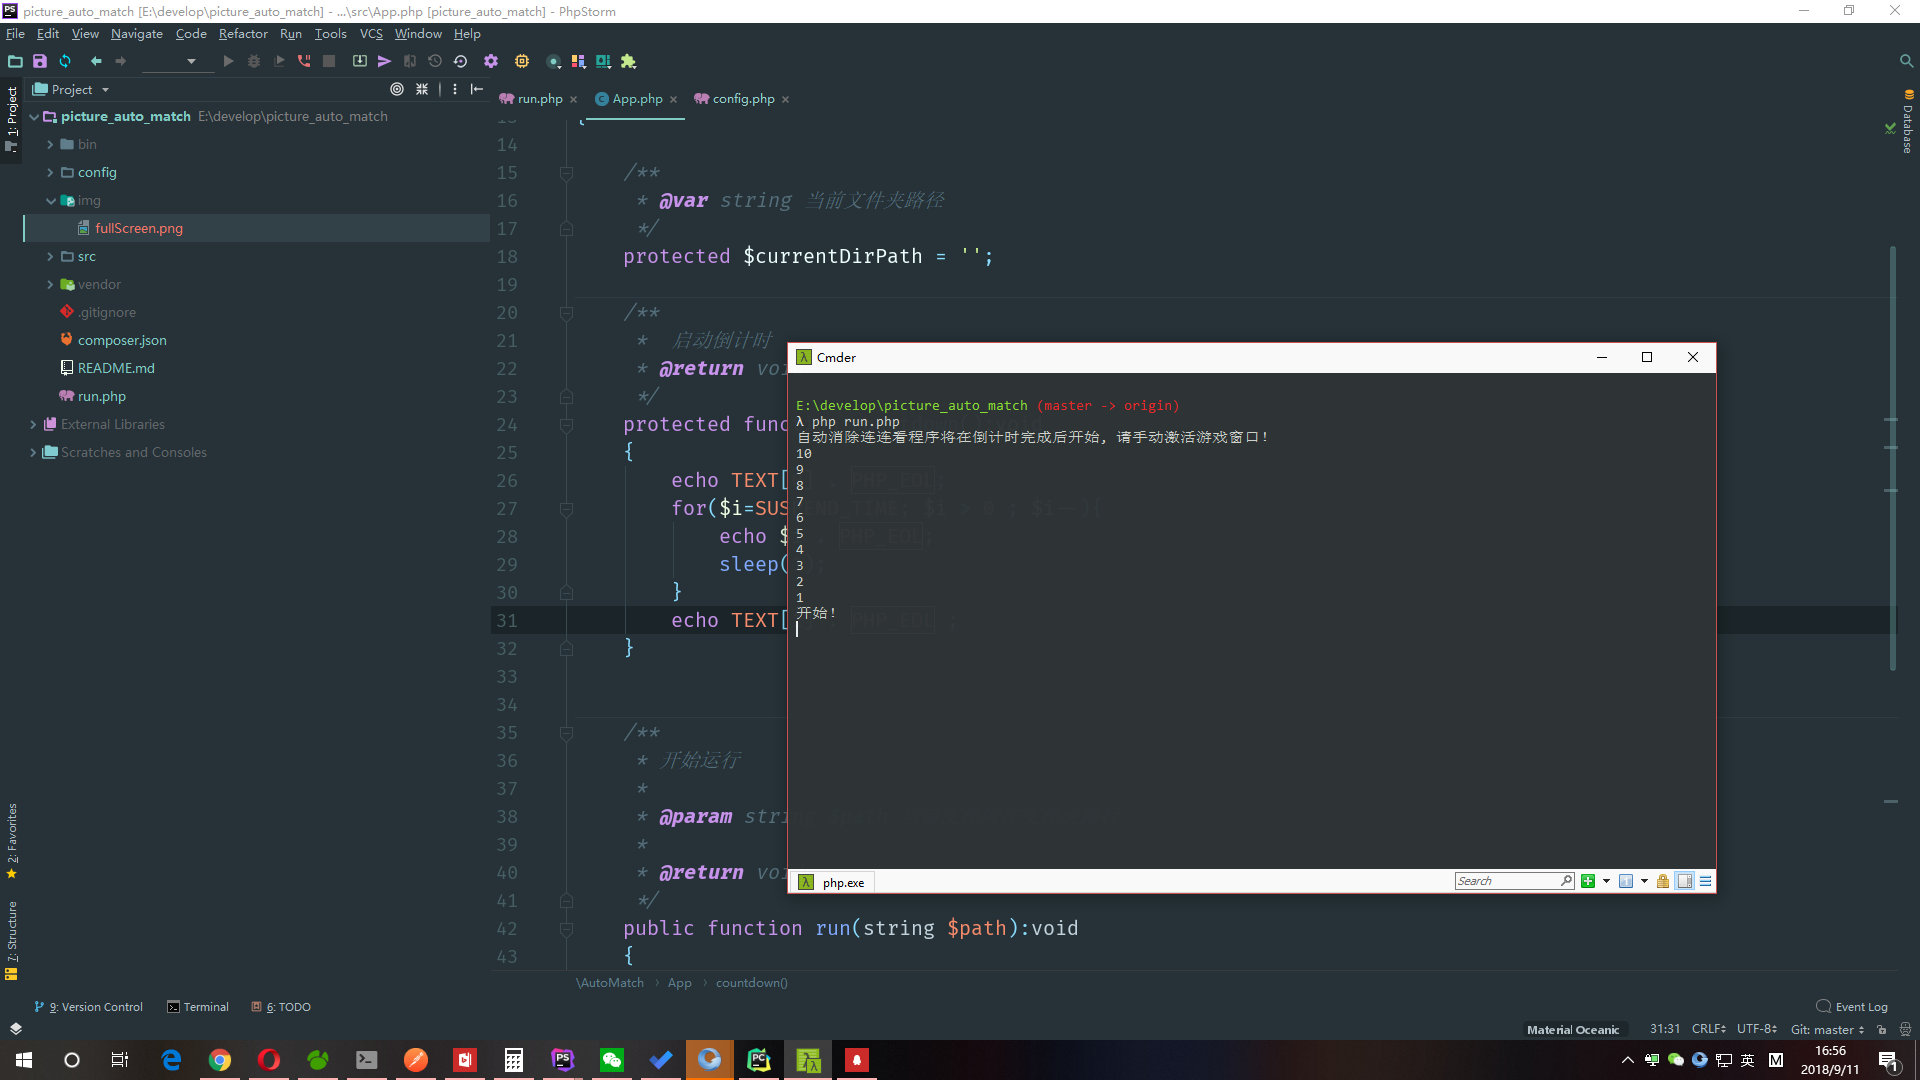
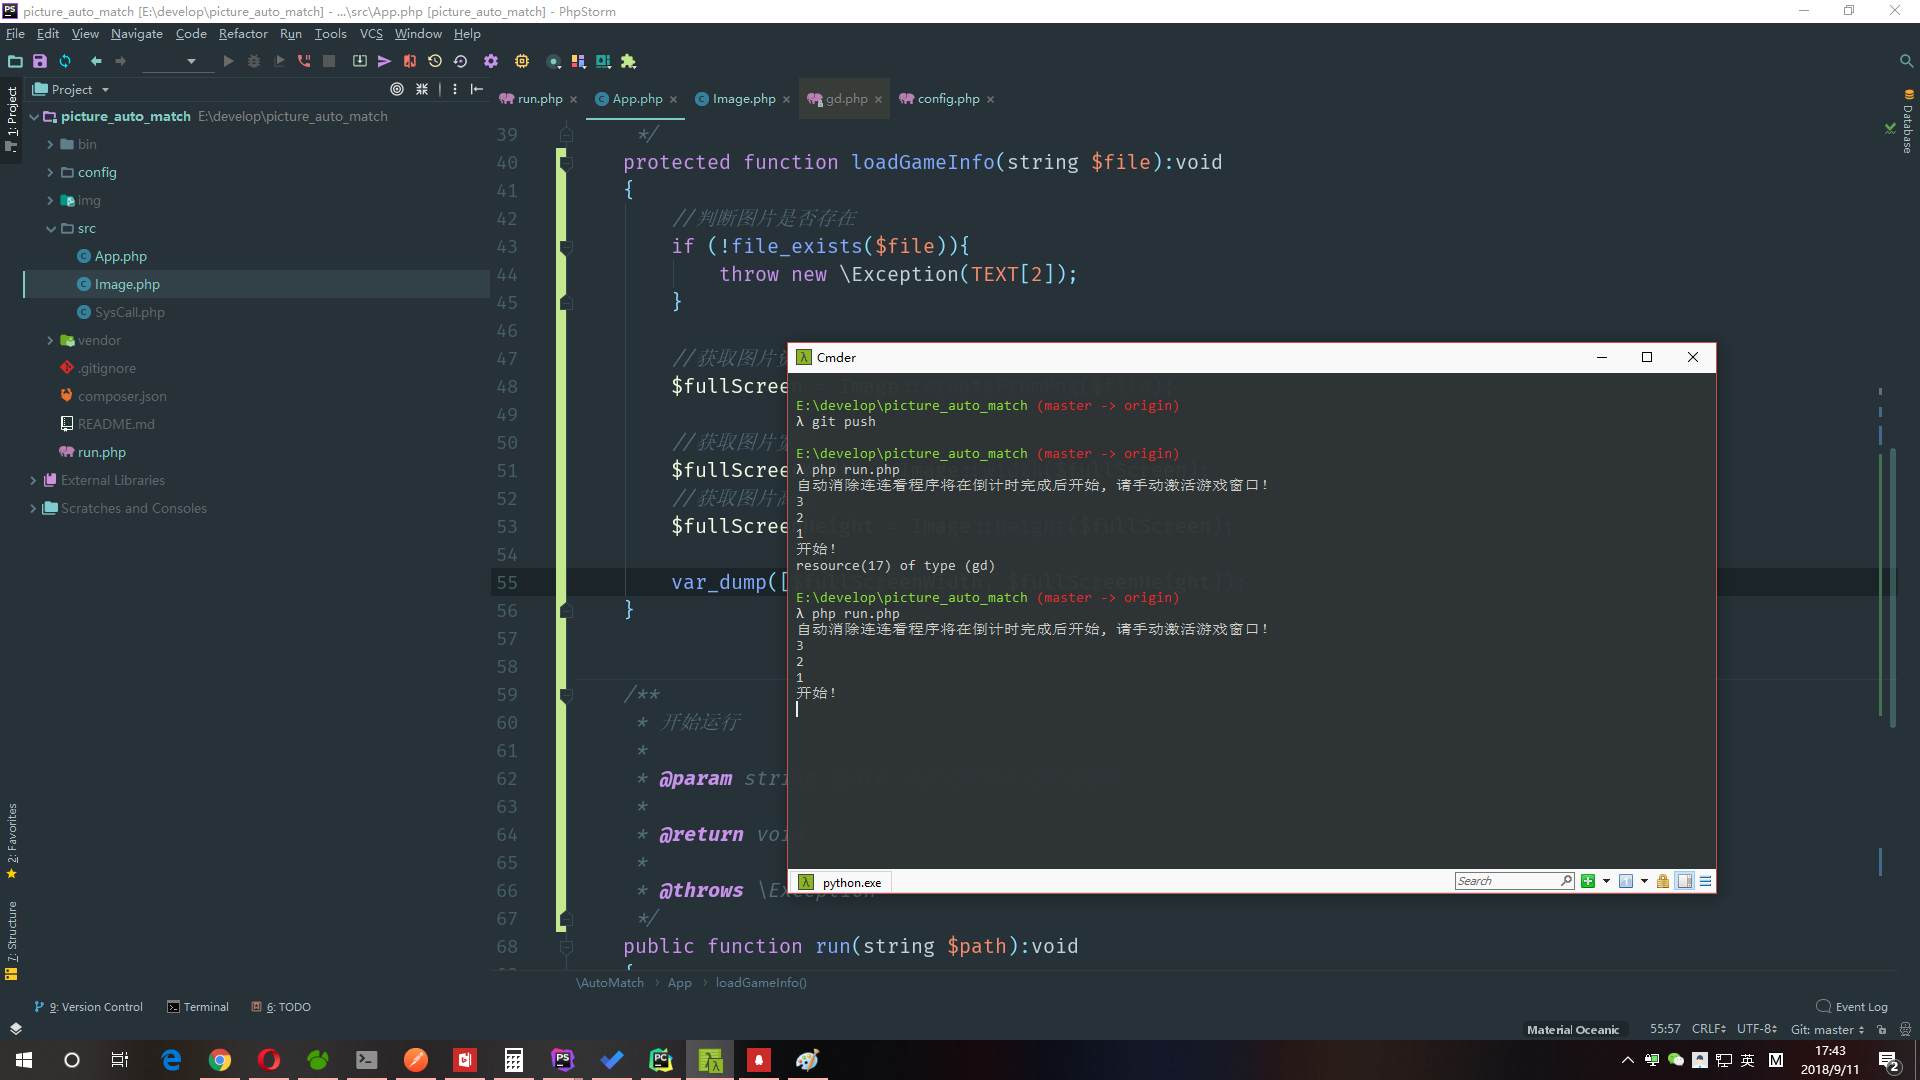
获取图片宽高

diff --git a/src/App.php b/src/App.php
@@ -31,6 +31,30 @@ class App
         echo TEXT[1] . PHP_EOL ;
     }
 
+    /**
+     * 查找游戏区域
+     *
+     * @param string $file
+     * @throws \Exception
+     */
+    protected function loadGameInfo(string $file):void
+    {
+        //判断图片是否存在
+        if (!file_exists($file)){
+            throw new \Exception(TEXT[2]);
+        }
+
+        //获取图片资源
+        $fullScreen = Image::createFromPng($file);
+
+        //获取图片宽度
+        $fullScreenWidth = Image::width($fullScreen);
+        //获取图片高度
+        $fullScreenHeight = Image::height($fullScreen);
+
+        var_dump([$fullScreenWidth, $fullScreenHeight]);
+    }
+
 
     /**
      * 开始运行
@@ -38,6 +62,8 @@ class App
      * @param string $path 当前文件所在文件夹路径
      *
      * @return void
+     *
+     * @throws \Exception
      */
     public function run(string $path):void
     {
@@ -53,7 +79,9 @@ class App
         //截取当前屏幕图像
         SysCall::printScreen($filePath);
 
-        echo '233'.PHP_EOL;
+        //加载游戏信息
+        $this->loadGameInfo($filePath);
+
     }
 
 

diff --git a/src/Image.php b/src/Image.php
@@ -1,0 +1,47 @@
+<?php
+/**
+ * Created by PhpStorm.
+ * User: wangl
+ * Date: 2018/9/11
+ * Time: 17:21
+ */
+
+namespace AutoMatch;
+
+
+class Image
+{
+    /**
+     * 根据知道图片获取图片资源
+     *
+     * @param $file
+     * @return resource
+     */
+    public static function createFromPng($file)
+    {
+        return imagecreatefrompng($file);
+    }
+
+
+    /**
+     * 获取图片的宽度
+     * @param $picture
+     * @return int
+     */
+    public static function width($picture)
+    {
+        return imagesx($picture);
+    }
+
+
+    /**
+     * 获取图片的高度
+     * @param $picture
+     * @return int
+     */
+    public static function height($picture)
+    {
+        return imagesy($picture);
+    }
+
+}

diff --git a/config/config.php b/config/config.php
@@ -10,9 +10,13 @@
 define('TEXT', [
     0 => '自动消除连连看程序将在倒计时完成后开始, 请手动激活游戏窗口！',
     1 => '开始！',
+    2 => '图片未找到!',
 ]);
 
 // 开始执行等待使劲按
-define('SUSPEND_TIME', 10);
-// 全屏文件保存位置
+define('SUSPEND_TIME', 3);
+// 全屏图片保存位置
 define('FULL_SCREEN_IMG', '/img/fullScreen.png');
+// 查找起始坐标跳过点,加速查找起始坐标
+define('SKIP_START_X', 0);
+define('SKIP_START_Y', 0);

diff --git a/run.php b/run.php
@@ -8,4 +8,8 @@
 
 require './vendor/autoload.php';
 
-(new \AutoMatch\App())->run(__DIR__);
+try{
+    (new \AutoMatch\App())->run(__DIR__);
+} catch (\Exception $e){
+    echo $e->getMessage() . PHP_EOL;
+}
